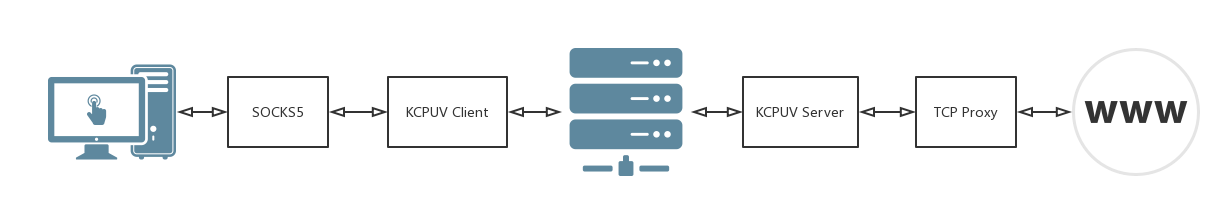
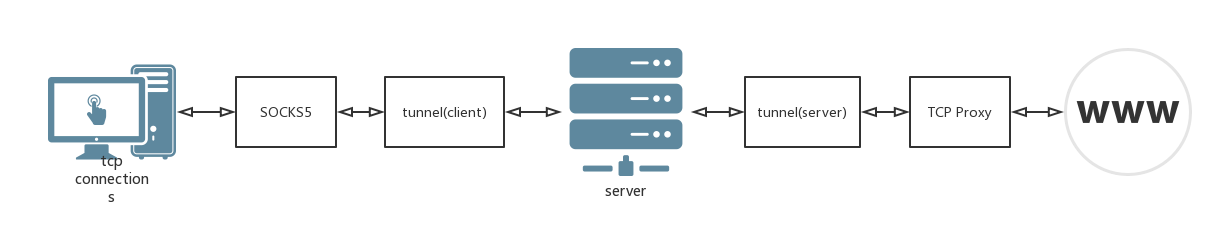
update

diff --git a/node/src/socket_manager.js b/node/src/socket_manager.js
@@ -181,6 +181,7 @@ export function createClient(_options) {
   const options = Object.assign({}, DEFAULT_OPTIONS, _options)
   const { serverAddr, serverPort } = options
   const client = new EventEmitter()
+
   client.state = 0
   client.ports = []
   client._roundCur = 0

diff --git a/README.md b/README.md
@@ -1,8 +1,10 @@
 # nysocks
 
+[![npm-version](https://img.shields.io/npm/v/nysocks.svg?style=flat-square)](https://www.npmjs.com/package/nysocks)
+
 Nysocks binds [kcp](https://github.com/skywind3000/kcp) and [libuv](https://github.com/libuv/libuv) to provide a tcp tunnel in nodejs.
 
-Proxy tests from a Linode instance(Tokyo 2, JP) where 10% packet loss always happend:
+Proxy tests from a Linode instance(Tokyo 2, JP) where 10% packet loss always happens when trasmission data from to China mainland:
 
 **tcp proxy:**
 <br/>
@@ -16,13 +18,32 @@ Proxy tests from a Linode instance(Tokyo 2, JP) where 10% packet loss always hap
 <br/>
 <img src="https://cdn.rawgit.com/oyyd/nysocks/fa173e5c/imgs/fast2.png" width="475" />
 
-## Architecture
+## How it works
 
 ![work](https://cdn.rawgit.com/oyyd/nysocks/fa173e5c/imgs/work.png)
 
+**protocol(unstable):**
+
+```
++-----+-----+---------+---------+--------+------------+
+| kcp | CMD |  nonce  | mux.cmd | mux.id | mux.length |
++-----+-----+---------+---------+--------+------------+
+| 24  |  1  |    8    |    1    |    2   |     4      |
++-----+-----+---------+---------+--------+------------+
+```
+
+## About the Tunnel Implementation
+
+The tunnel connections in nysocks is implemented as a [node-addon(C/CPP)](https://nodejs.org/api/addons.html) mainly because:
+
+0. Node don't support setting send/recv buffer size of udp connections before v8.7.0.
+0. In large data transmissions, udp message callback is too frequently and manipulating buffers in js(or any other script languages) is relatively expensive which would make the total performace unacceptable. You can check my pure js implementation [here](https://github.com/oyyd/kcp-node/).
+
+Still, I'm not a professional C/CPP language user or network programmer. Please submit PRs or issues to help us improve it!
+
 ## Installation
 
-Make sure you have installed [node-gyp](https://github.com/nodejs/node-gyp#installation) successfully as nysocks will build C/CPP code. Then:
+**Make sure** you have [node-gyp](https://github.com/nodejs/node-gyp#installation) installed successfully as nysocks will build C/CPP code, then:
 
 ```
 npm i nysocks -g
@@ -56,14 +77,6 @@ Modify your options in the CLI. See other options here:
 nysocks -h
 ```
 
-### How to utilize the SOCKS5 service
-
-Most OSes support SOCKS5 proxy by default:
-
-![osx-set-proxy](https://cdn.comparitech.com/wp-content/uploads/2017/01/MacOS-Set-proxy.png)
-
-Chrome extension [Proxy SwitchySharp](https://chrome.google.com/webstore/detail/proxy-switchysharp/dpplabbmogkhghncfbfdeeokoefdjegm).
-
 ## Configs
 
 ```json
@@ -89,14 +102,22 @@ Chrome extension [Proxy SwitchySharp](https://chrome.google.com/webstore/detail/
 }
 ```
 
+### How to utilize the SOCKS5 service
+
+Most OSes support SOCKS5 proxy by default:
+
+![osx-set-proxy](https://cdn.comparitech.com/wp-content/uploads/2017/01/MacOS-Set-proxy.png)
+
+Use chrome extensions like [SwitchyOmega](https://github.com/FelisCatus/SwitchyOmega) to help browse web pages by proxy.
+
 ## Encryption
 
 `aes_256_cbc`
 
 ## Known Issues
 
-- Do not support ipv6.
-- Changing the ip of the client will disconnect all the connections.
+- Do not support ipv6 currently.
+- Changing the ip of the client will disconnect all the connections temporary.
 
 ## References
 
